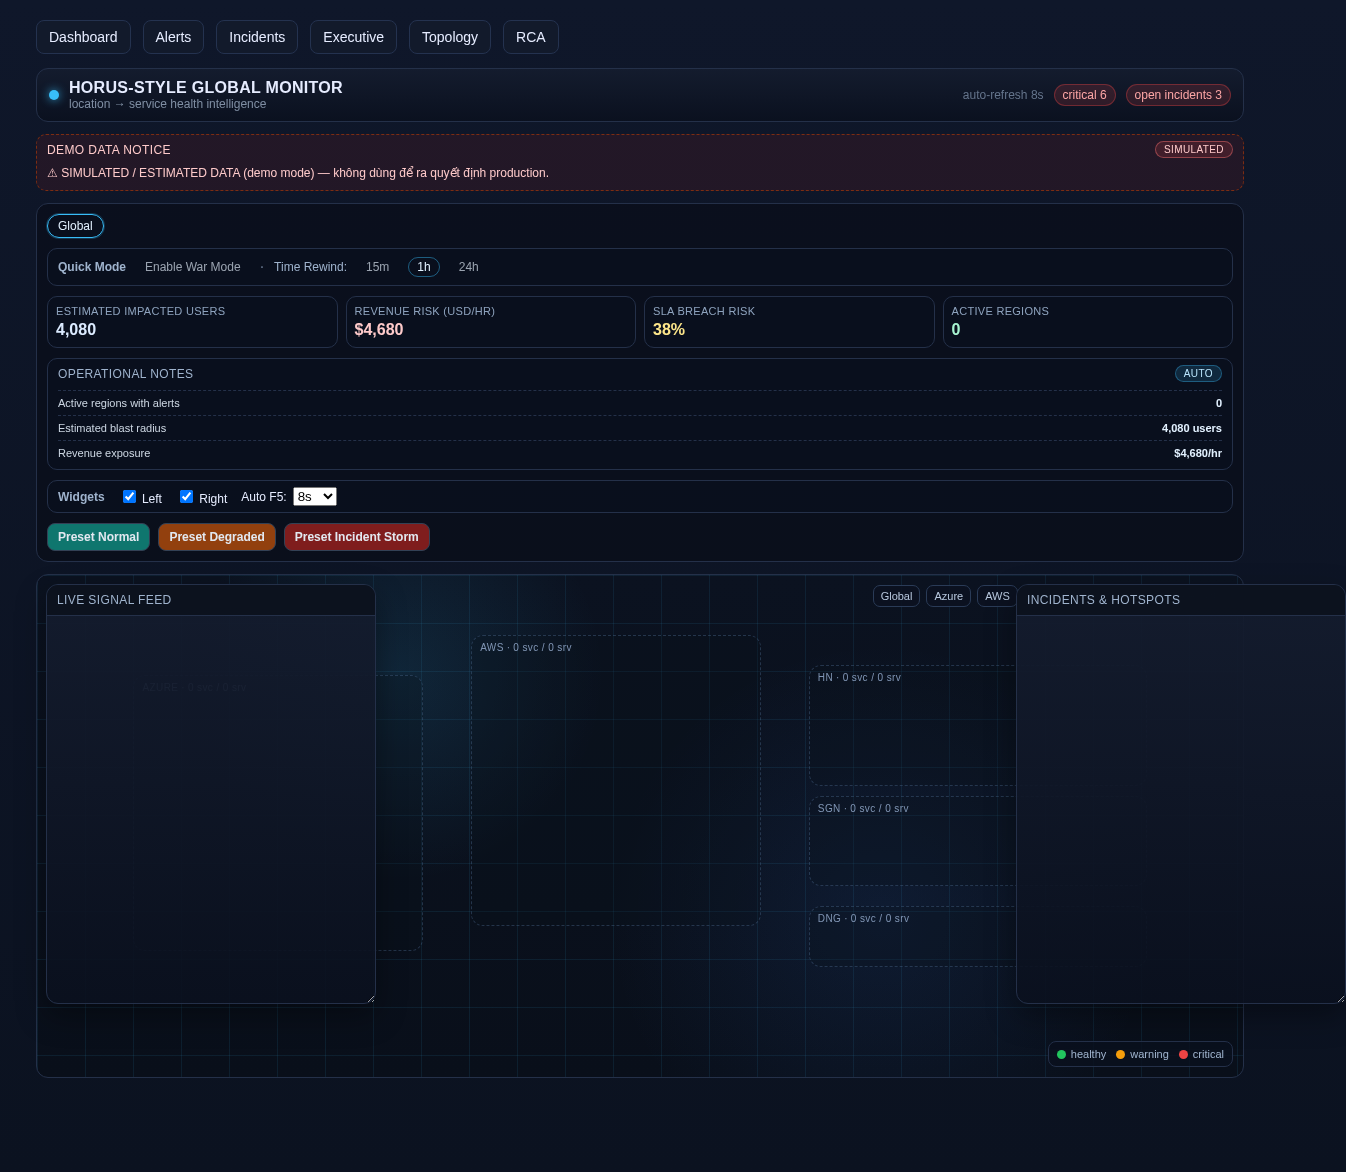
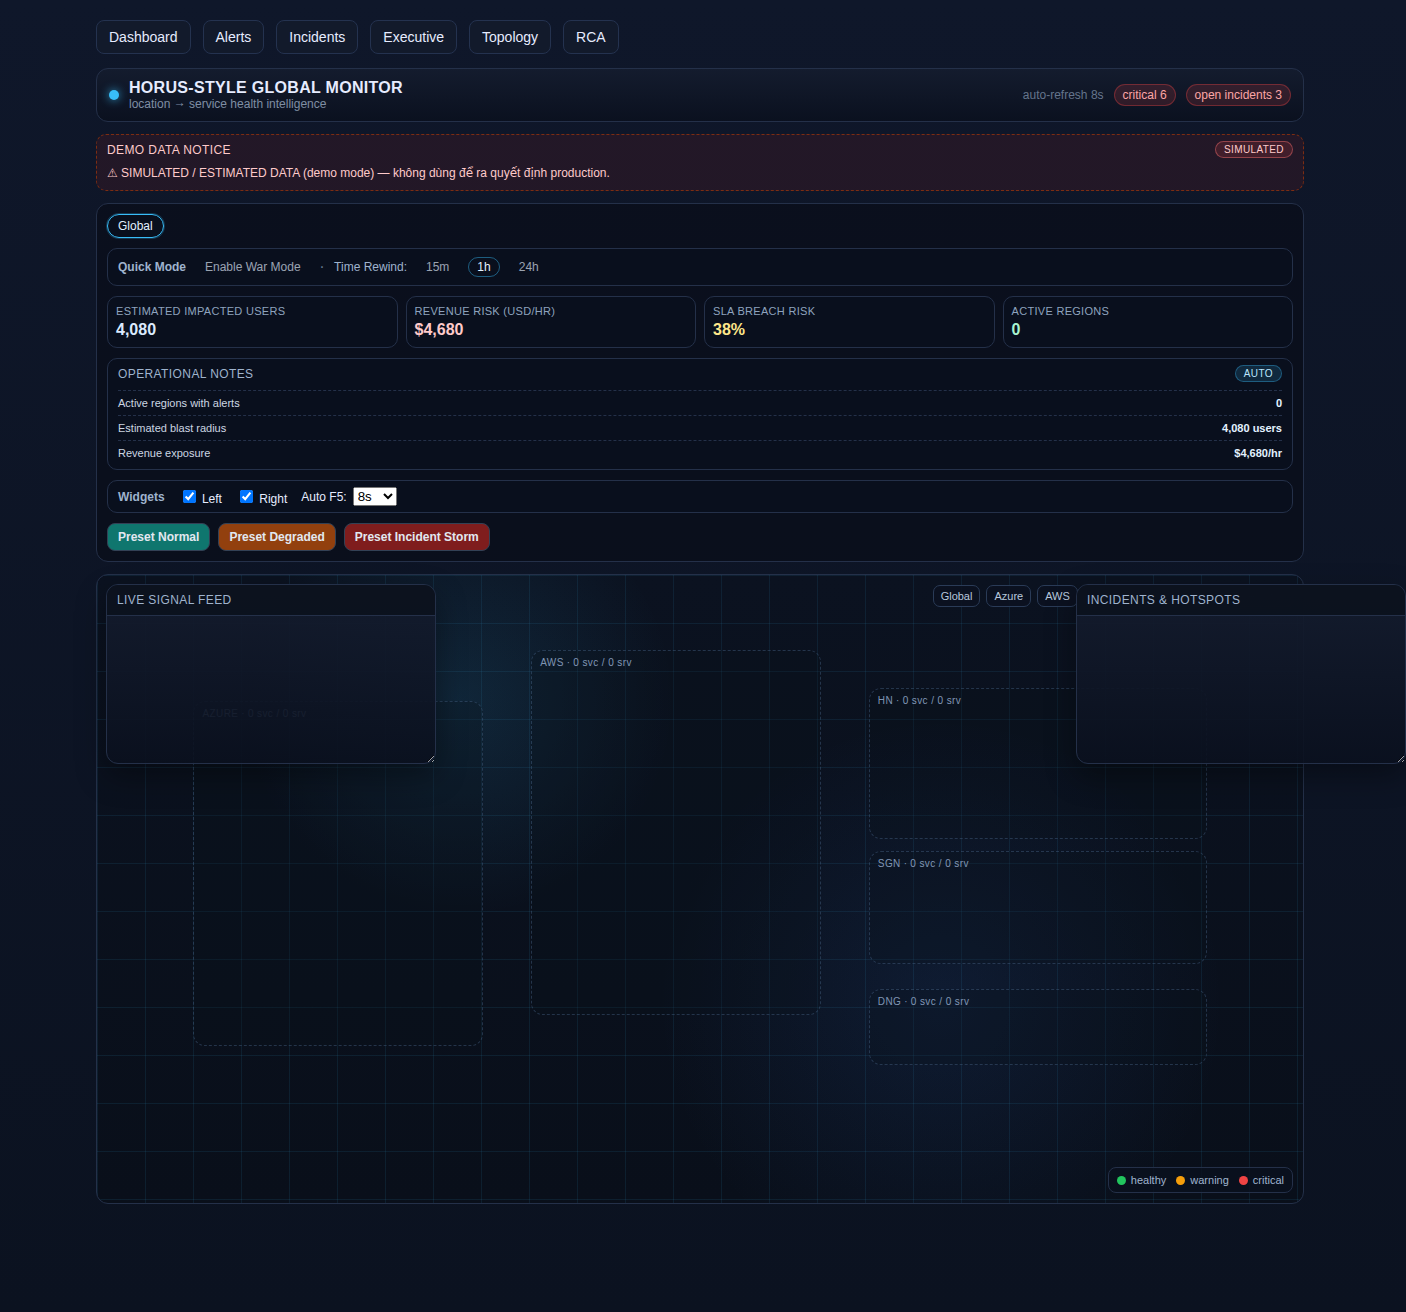
Improve Home KPI grid responsiveness

diff --git a/worldmonitor-hybrid/web/app/home.module.css b/worldmonitor-hybrid/web/app/home.module.css
@@ -118,7 +118,7 @@
 
 .metricGrid {
   display: grid;
-  grid-template-columns: repeat(4, minmax(150px, 1fr));
+  grid-template-columns: repeat(auto-fit, minmax(170px, 1fr));
   gap: 8px;
 }
 

diff --git a/worldmonitor-hybrid/CHANGELOG.md b/worldmonitor-hybrid/CHANGELOG.md
@@ -51,6 +51,7 @@
 - Home data flow: chuẩn hoá `summary.open_alerts/open_incidents` về số an toàn (fallback 0) để tránh NaN KPI khi API tạm trả string/null.
 - Home data flow: chuẩn hoá `topology.nodes[].open_alerts/open_incidents` về số an toàn khi tính hotspot + active regions để tránh lệch ranking/count nếu API trả string/null.
 - Home data flow: khi chọn location, Home chỉ fetch incidents/alerts theo `location_code` (thay vì toàn cục) để widget nổi phản ánh đúng khu vực đang focus.
+- Home: KPI grid chuyển sang auto-fit min width để bố cục gọn, không bị bó cứng 4 cột trên màn hình hẹp.
 
 ### Added (latest rounds)
 - Thêm KPI card `Active regions` trên Home để thấy nhanh số khu vực đang có alert/incident.
